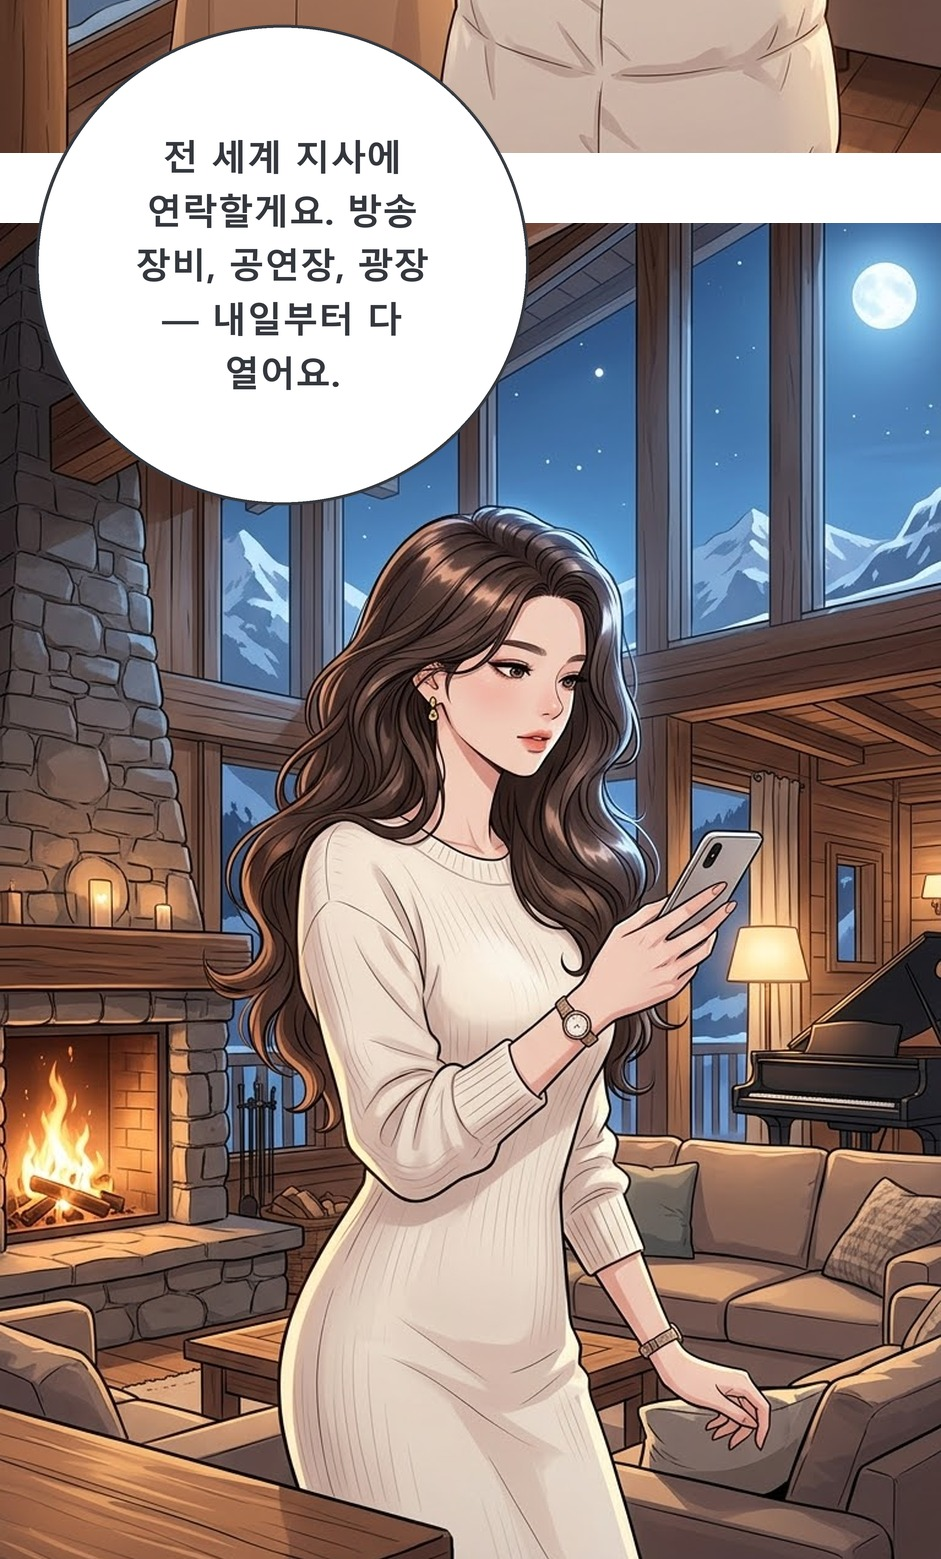
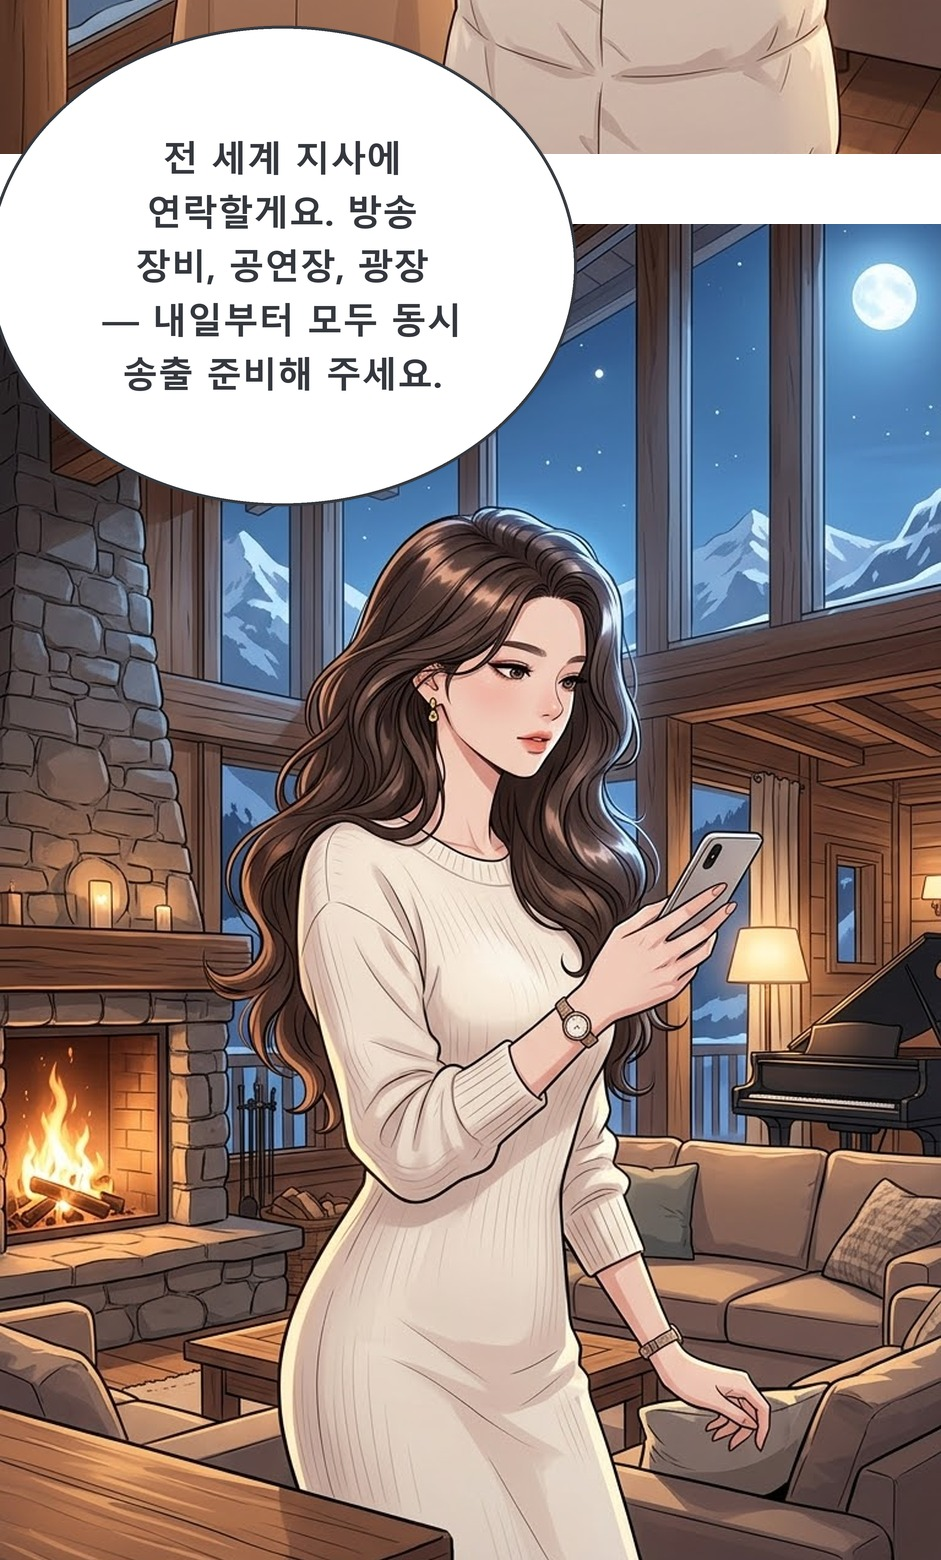
fix: 퓨어데이 시즌2 14화 65쪽 김미아 대사 수정 (동시 송출 준비)

diff --git a/index.html b/index.html
@@ -61,7 +61,7 @@ footer{text-align:center;color:var(--muted);font-size:12px;padding:24px 16px 40p
 <nav id="nav"></nav>
 <main id="main"></main>
 <footer>여호수아 시즌1은 기존 Joshua-story 사이트에서 열립니다.</footer>
-<script src="data.js?v=202610242312"></script>
+<script src="data.js?v=202610242331"></script>
 <script>
 const esc = s => String(s).replace(/[&<>"]/g, c => ({'&':'&amp;','<':'&lt;','>':'&gt;','"':'&quot;'}[c]));
 const nav = document.getElementById('nav'), main = document.getElementById('main');

diff --git a/viewer.html b/viewer.html
@@ -41,7 +41,7 @@ select{font:inherit;font-size:13px;padding:4px 6px;border:1px solid var(--line);
   <p id="endNote"></p>
   <div class="nav" id="nav"></div>
 </div>
-<script src="data.js?v=202610242312"></script>
+<script src="data.js?v=202610242331"></script>
 <script>
 const sid = new URLSearchParams(location.search).get('s') || 'pureday';  // 2026-10-20 시즌2 카드
 const s = window.PORTAL.series.find(x => x.id === sid) || window.PORTAL.series.find(x => x.id === 'pureday');
